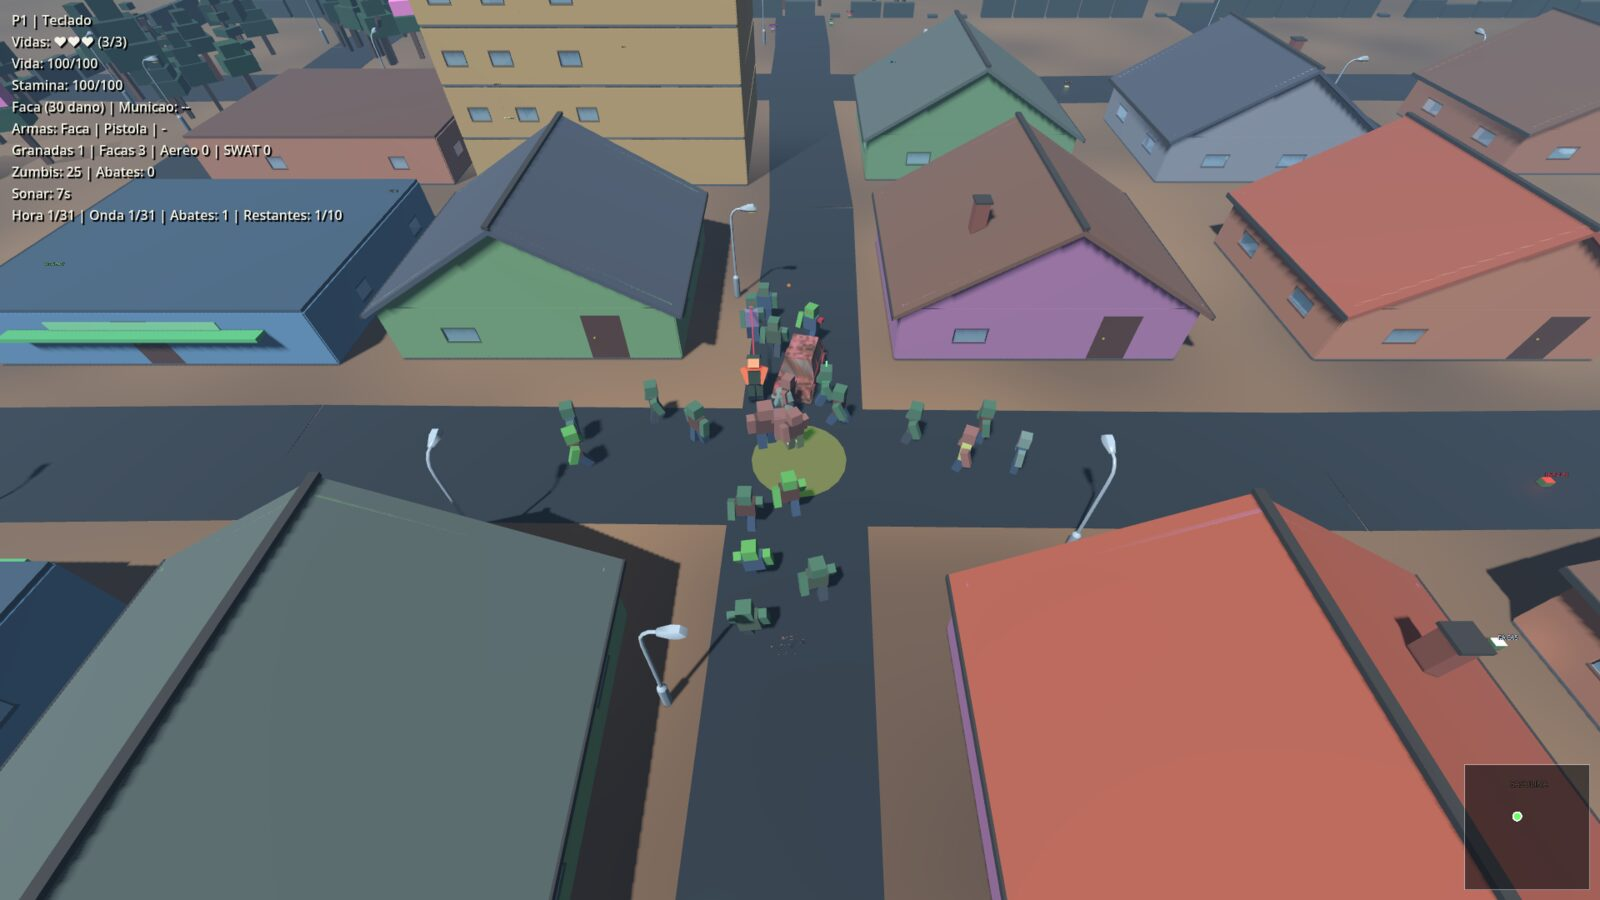
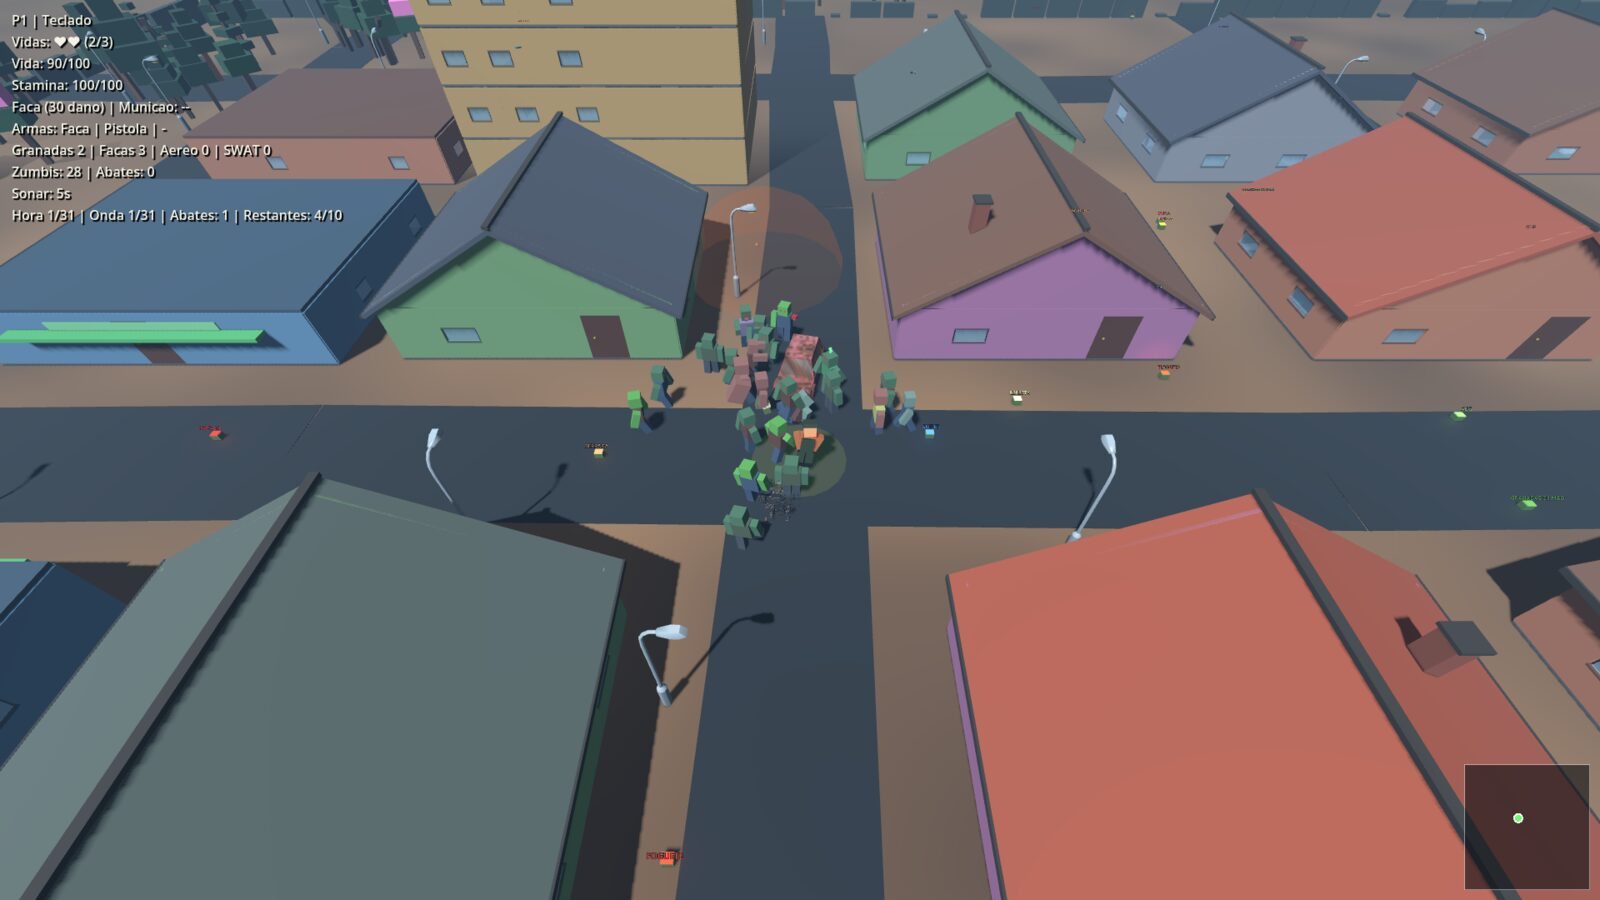
docs: corrige legendas (fumaca do SWAT inexistente e "mesmo teclado")
Duas legendas afirmavam coisas que o jogo nao tem/faz:

- SWAT "desce com fumaca": nao existe fumaca nenhuma no deploy do esquadrao (o
  `_tick_swat_smoke` do main.gd e um teste de pathing do modo smoke-test, nao um
  efeito visual). Legenda agora descreve o que aparece: o esquadrao entrando na
  rua e segurando o cerco.
- Tela dividida "4 pessoas no mesmo teclado": o jogo aceita teclado e controle
  misturados por jogador; a legenda fala em mesma tela e dispositivo proprio.

A receita da granada virou serie de 3 (a explosao dura 0,55 s: com uma so ela
quase nunca cai no frame) e a captura espera o efeito aparecer.

diff --git a/README.md b/README.md
@@ -23,11 +23,12 @@ Ataque aereo: o alvo e marcado no chao e as bombas caem em linha sobre a horda.
 
 ![Granada explodindo no meio da horda](docs/imagens/granada-na-horda.jpg)
 
-Granada: explosao em area, com dano e ruido que atrai mais zumbis.
+Granada: uma sequencia de granadas no meio da horda (a explosao em area dura
+ menos de um segundo, entao a serie e o que garante o flagra).
 
 ![Esquadrao SWAT ajudando a segurar a rua](docs/imagens/swat-aliado.jpg)
 
-SWAT: um esquadrao aliado desce com fumaca e segura a rua por 20 segundos.
+SWAT: um esquadrao aliado entra na rua e segura o cerco por 20 segundos.
 
 ![Aviao de suprimentos cruzando a cidade](docs/imagens/airdrop-aviao.jpg)
 
@@ -51,7 +52,8 @@ Fim de rodada por eliminacao, com o placar atualizado.
 
 ![Tela dividida com 4 jogadores locais](docs/imagens/tela-dividida.jpg)
 
-Tela dividida 2x2, com um HUD por jogador: ate 4 pessoas no mesmo teclado.
+Tela dividida 2x2, com um HUD por jogador: ate 4 jogadores locais na mesma tela,
+ cada um com seu dispositivo (teclado ou controle).
 
 ![Cidade procedural vista de cima](docs/imagens/cidade-ampla.jpg)
 

diff --git a/docs/imagens/README.md b/docs/imagens/README.md
@@ -16,7 +16,7 @@ imagem.
 | `cidade-ampla.jpg` | cidade procedural vista de cima (sem nevoa nesta receita) |
 | `aereo-na-horda.jpg` | ataque aereo marcado no chao, bombas caindo em linha |
 | `granada-na-horda.jpg` | granada explodindo no meio da horda |
-| `swat-aliado.jpg` | esquadrao SWAT aliado com fumaca, segurando a rua |
+| `swat-aliado.jpg` | esquadrao SWAT aliado entrando na rua (sem fumaca: o jogo nao tem esse efeito) |
 | `airdrop-aviao.jpg` | aviao de suprimentos cruzando a cidade (sobrevoo) |
 | `airdrop.jpg` | crate de armas descendo de paraquedas |
 | `pvp-freezetime.jpg` | tempo de compra na base, com banner e placar |
